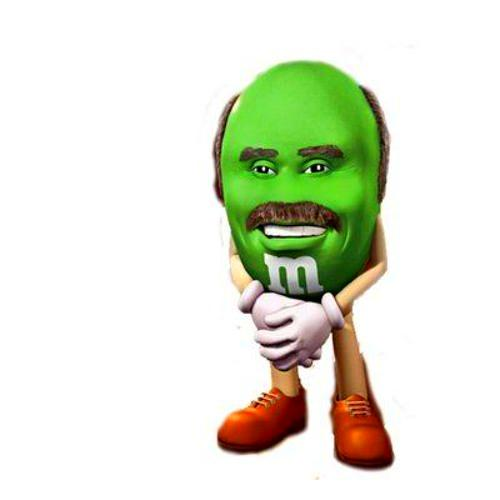
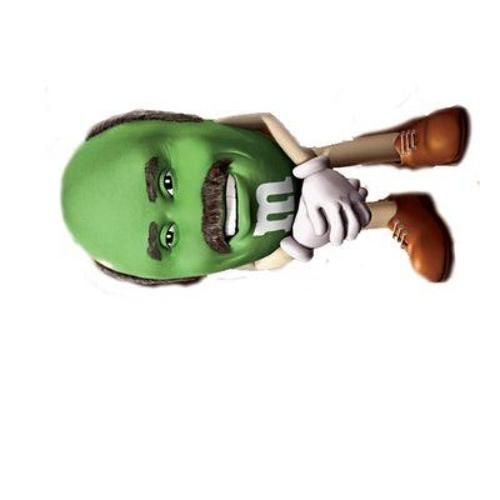
Rotate Images Script

diff --git a/Image Editor/img_editor.py b/Image Editor/img_editor.py
@@ -21,6 +21,10 @@ for image_file in image_files:
     red_filtered_image = enhancer.enhance(2.0)
     red_filtered_image.save(destination_path)
 
+    rotate_angle=90
+    rotated_image = image.rotate(rotate_angle, expand=True) 
+    rotated_image.save(destination_path)
+
     print(f"Processed '{image_file}'")
 
     print("Image editing and saving complete.")
